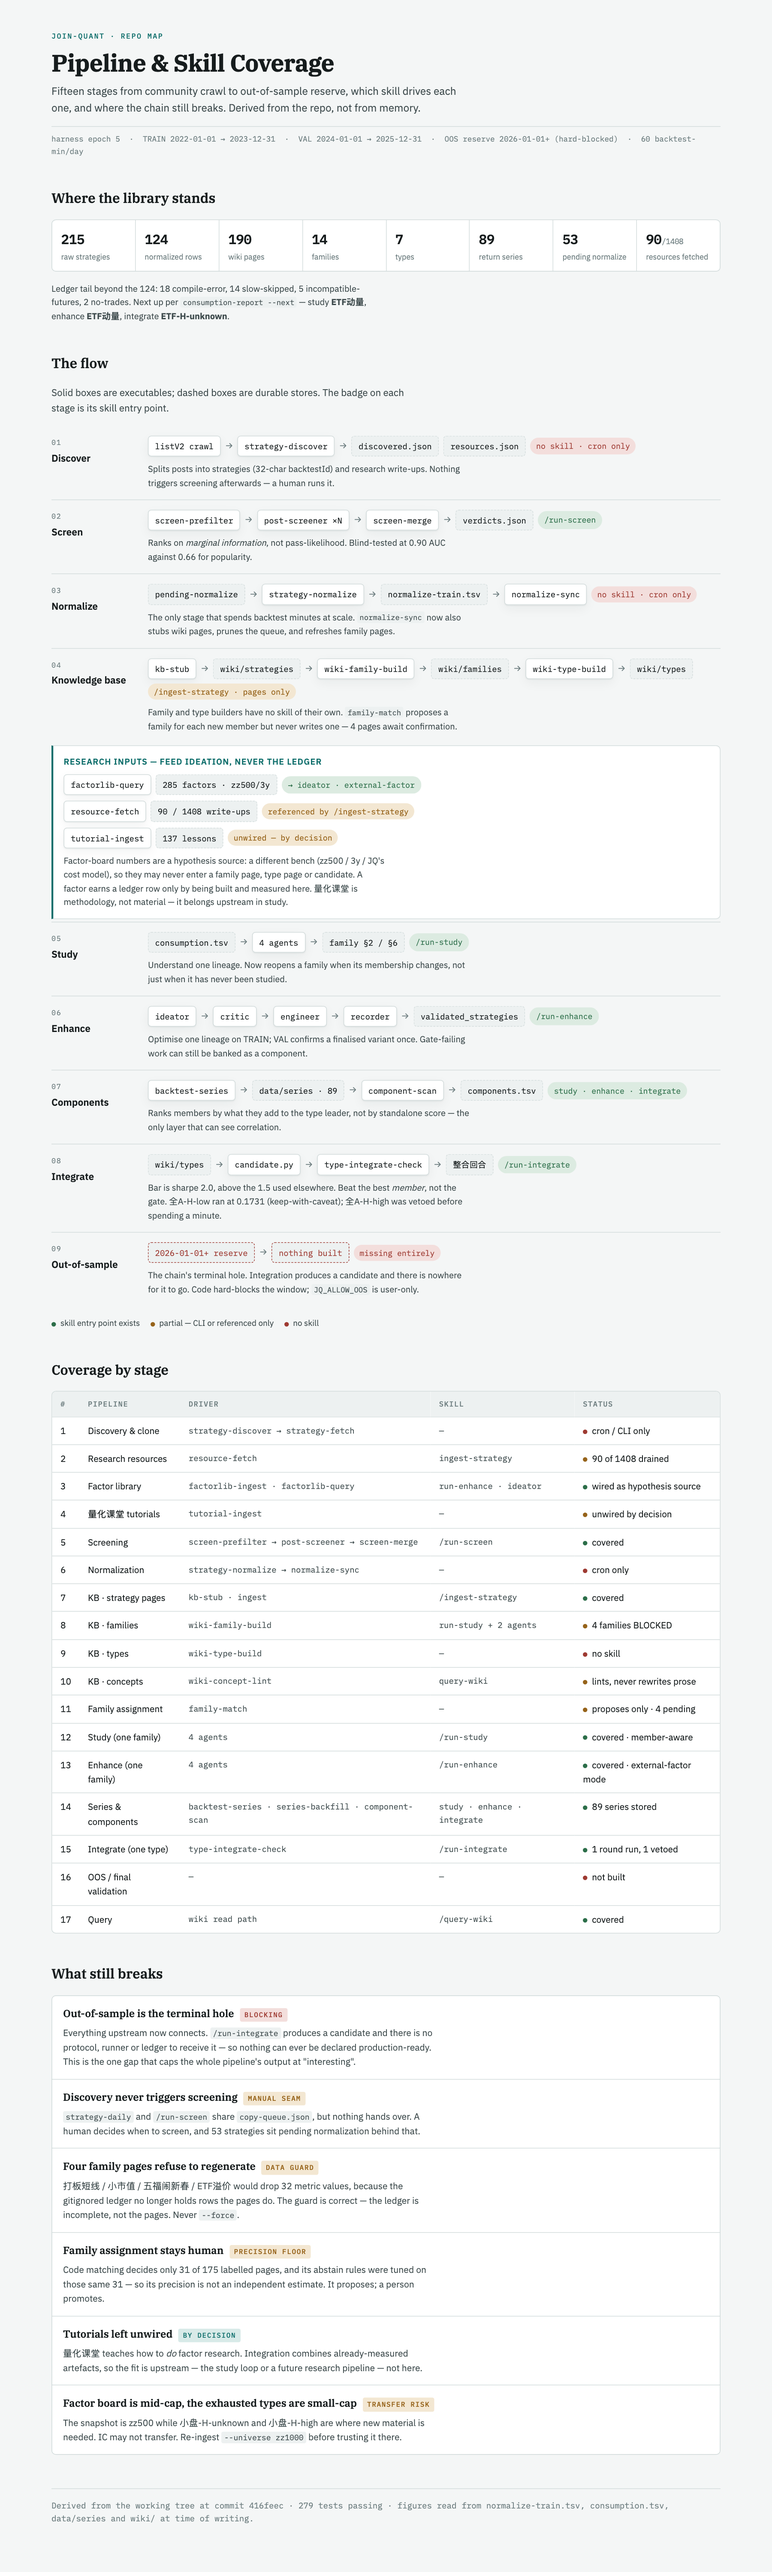
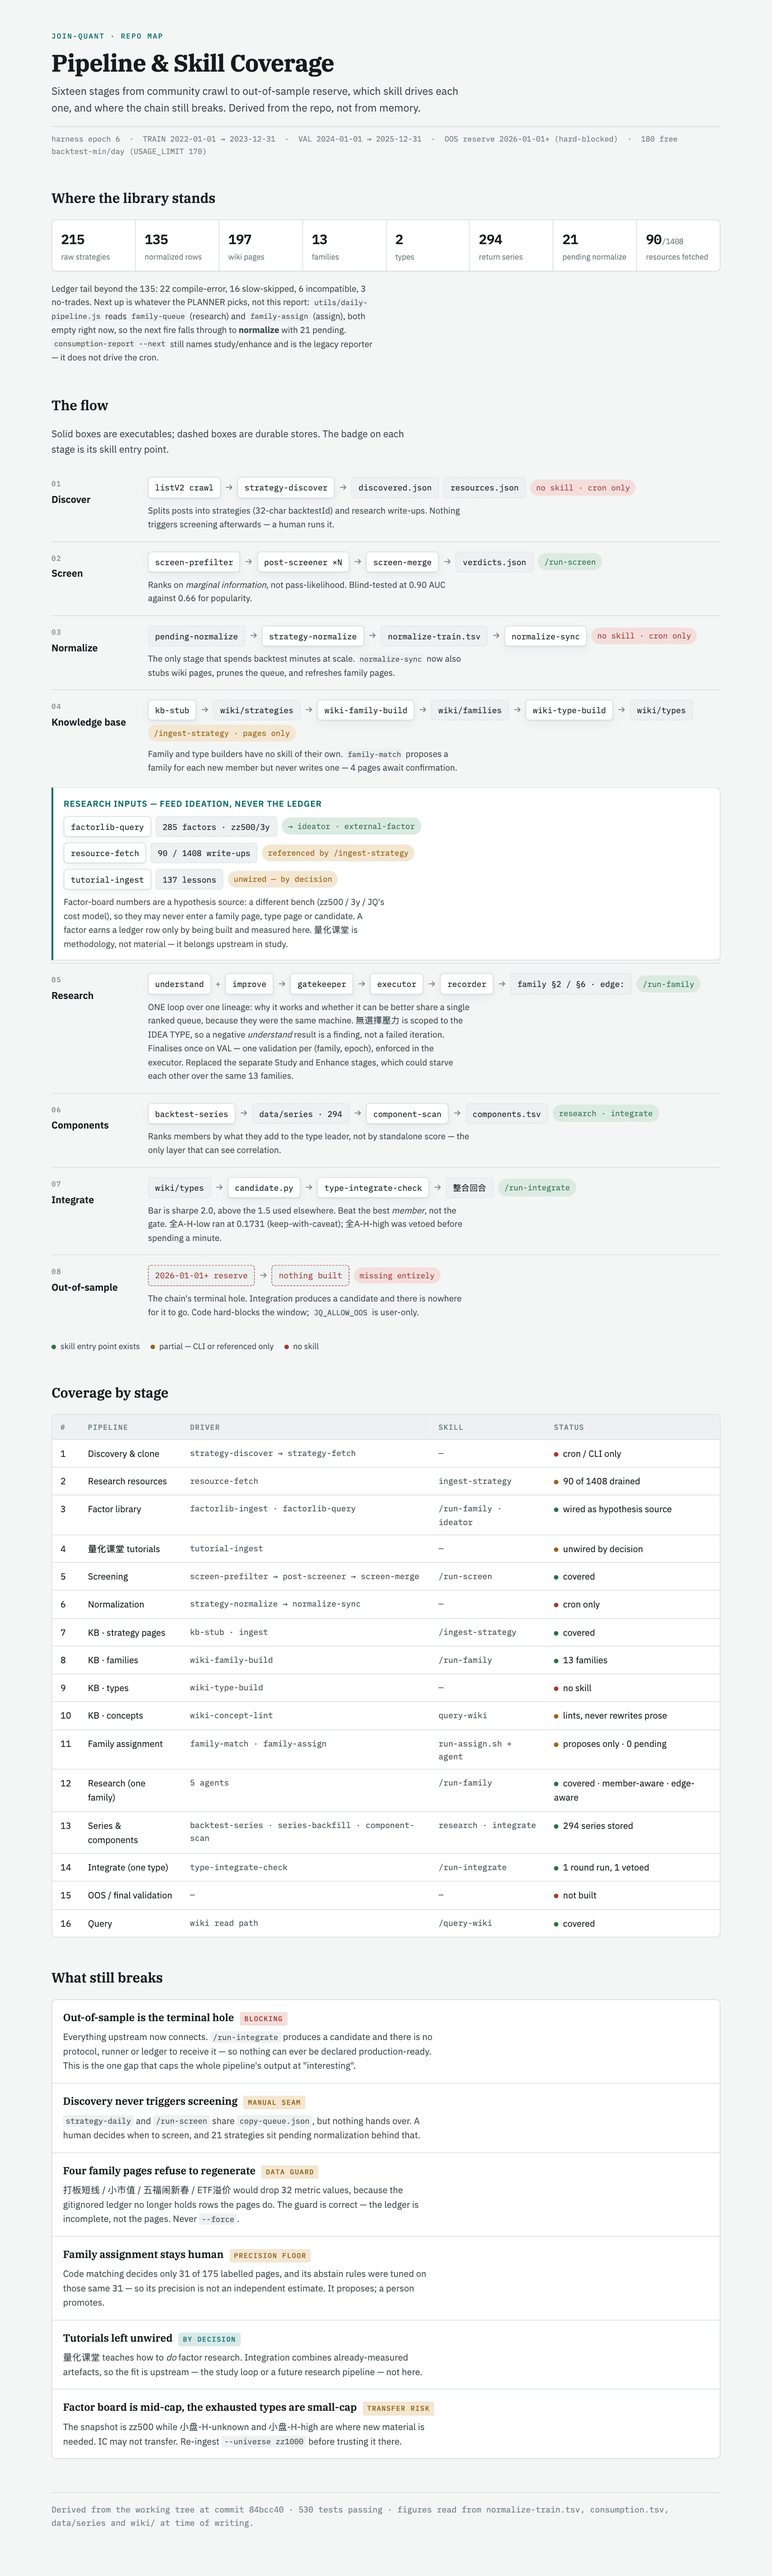
docs: regenerate the pipeline map, retire run-study/run-enhance, drop the stale worktree
Three cleanups from the stale-docs scan.

1. THE MAP. CLAUDE.md warns it "shows LIVE FIGURES so it goes stale silently",
   and it had. Structure: Study and Enhance were separate stages (cards 05/06,
   table rows 12/13) months after /run-family merged them — now one Research
   stage, 9 cards -> 8, 17 rows -> 16, and CLAUDE.md's "17 stages" with it.

   ⚠ grep found three stale strings; LOOKING at the render found eleven more,
   because the rest live in prose and stat blocks:

     harness epoch 5 -> 6            60 backtest-min/day -> 180 free (limit 170)
     124 normalized  -> 135          190 wiki pages      -> 197
     14 families     -> 13           7 types             -> 2
     89 return series-> 294          53 pending          -> 21
     ledger tail 18/14/5/2           -> 22/16/6/3
     commit 416feec · 279 tests      -> 84bcc40 · 530 tests
     Components card badge "study · enhance · integrate" -> "research · integrate"

   The "Next up" line cited `consumption-report --next`, which still names
   study/enhance and does NOT drive the cron. Replaced with what the planner
   actually reads — family-queue and family-assign, both empty, so the next fire
   falls through to normalize with 21 pending — and says the report is legacy.

2. THE SKILLS. .claude/skills/run-study and run-enhance removed; /run-family
   superseded them. Live references in run-daily, run-integrate and run-screen now
[…]

diff --git a/docs/pipeline-map.html b/docs/pipeline-map.html
@@ -170,27 +170,26 @@
   <header>
     <span class="eyebrow">join-quant · repo map</span>
     <h1>Pipeline &amp; Skill Coverage</h1>
-    <p class="sub">Fifteen stages from community crawl to out-of-sample reserve, which skill drives each one,
+    <p class="sub">Sixteen stages from community crawl to out-of-sample reserve, which skill drives each one,
       and where the chain still breaks. Derived from the repo, not from memory.</p>
-    <p class="stamp">harness epoch 5 &nbsp;·&nbsp; TRAIN 2022-01-01 → 2023-12-31 &nbsp;·&nbsp; VAL 2024-01-01 → 2025-12-31
-      &nbsp;·&nbsp; OOS reserve 2026-01-01+ (hard-blocked) &nbsp;·&nbsp; 60 backtest-min/day</p>
+    <p class="stamp">harness epoch 6 &nbsp;·&nbsp; TRAIN 2022-01-01 → 2023-12-31 &nbsp;·&nbsp; VAL 2024-01-01 → 2025-12-31
+      &nbsp;·&nbsp; OOS reserve 2026-01-01+ (hard-blocked) &nbsp;·&nbsp; 180 free backtest-min/day (USAGE_LIMIT 170)</p>
   </header>
 
   <section>
     <h2>Where the library stands</h2>
     <div class="counts">
       <div><b>215</b><span>raw strategies</span></div>
-      <div><b>124</b><span>normalized rows</span></div>
-      <div><b>190</b><span>wiki pages</span></div>
-      <div><b>14</b><span>families</span></div>
-      <div><b>7</b><span>types</span></div>
-      <div><b>89</b><span>return series</span></div>
-      <div><b>53</b><span>pending normalize</span></div>
+      <div><b>135</b><span>normalized rows</span></div>
+      <div><b>197</b><span>wiki pages</span></div>
+      <div><b>13</b><span>families</span></div>
+      <div><b>2</b><span>types</span></div>
+      <div><b>294</b><span>return series</span></div>
+      <div><b>21</b><span>pending normalize</span></div>
       <div><b>90<span style="font-size:.75rem;font-weight:400;color:var(--ink-3)">/1408</span></b><span>resources fetched</span></div>
     </div>
-    <p class="note">Ledger tail beyond the 124: 18 compile-error, 14 slow-skipped, 5 incompatible-futures,
-      2 no-trades. Next up per <code>consumption-report --next</code> — study <strong>ETF动量</strong>,
-      enhance <strong>ETF动量</strong>, integrate <strong>ETF-H-unknown</strong>.</p>
+    <p class="note">Ledger tail beyond the 135: 22 compile-error, 16 slow-skipped, 6 incompatible,
+      3 no-trades. Next up is whatever the PLANNER picks, not this report: <code>utils/daily-pipeline.js</code> reads <code>family-queue</code> (research) and <code>family-assign</code> (assign), both empty right now, so the next fire falls through to <strong>normalize</strong> with 21 pending. <code>consumption-report --next</code> still names study/enhance and is the legacy reporter — it does not drive the cron.</p>
   </section>
 
   <section>
@@ -285,44 +284,34 @@
       </div>
 
       <div class="stage">
-        <div class="stage-key"><span class="n">05</span><span class="nm">Study</span></div>
+        <div class="stage-key"><span class="n">05</span><span class="nm">Research</span></div>
         <div class="stage-body">
           <div class="nodes">
-            <span class="node store">consumption.tsv</span><span class="arrow">→</span>
-            <span class="node">4 agents</span><span class="arrow">→</span>
-            <span class="node store">family §2 / §6</span>
-            <span class="skill has">/run-study</span>
-          </div>
-          <p class="note">Understand one lineage. Now reopens a family when its membership changes, not just when
-            it has never been studied.</p>
-        </div>
-      </div>
-
-      <div class="stage">
-        <div class="stage-key"><span class="n">06</span><span class="nm">Enhance</span></div>
-        <div class="stage-body">
-          <div class="nodes">
-            <span class="node">ideator</span><span class="arrow">→</span>
-            <span class="node">critic</span><span class="arrow">→</span>
-            <span class="node">engineer</span><span class="arrow">→</span>
+            <span class="node">understand</span><span class="arrow">+</span>
+            <span class="node">improve</span><span class="arrow">→</span>
+            <span class="node">gatekeeper</span><span class="arrow">→</span>
+            <span class="node">executor</span><span class="arrow">→</span>
             <span class="node">recorder</span><span class="arrow">→</span>
-            <span class="node store">validated_strategies</span>
-            <span class="skill has">/run-enhance</span>
+            <span class="node store">family §2 / §6 · edge:</span>
+            <span class="skill has">/run-family</span>
           </div>
-          <p class="note">Optimise one lineage on TRAIN; VAL confirms a finalised variant once. Gate-failing work
-            can still be banked as a component.</p>
+          <p class="note">ONE loop over one lineage: why it works and whether it can be better share a single
+            ranked queue, because they were the same machine. 無選擇壓力 is scoped to the IDEA TYPE, so a
+            negative <em>understand</em> result is a finding, not a failed iteration. Finalises once on VAL —
+            one validation per (family, epoch), enforced in the executor. Replaced the separate Study and
+            Enhance stages, which could starve each other over the same 13 families.</p>
         </div>
       </div>
 
       <div class="stage">
-        <div class="stage-key"><span class="n">07</span><span class="nm">Components</span></div>
+        <div class="stage-key"><span class="n">06</span><span class="nm">Components</span></div>
         <div class="stage-body">
           <div class="nodes">
             <span class="node">backtest-series</span><span class="arrow">→</span>
-            <span class="node store">data/series · 89</span><span class="arrow">→</span>
+            <span class="node store">data/series · 294</span><span class="arrow">→</span>
             <span class="node">component-scan</span><span class="arrow">→</span>
             <span class="node store">components.tsv</span>
-            <span class="skill has">study · enhance · integrate</span>
+            <span class="skill has">research · integrate</span>
           </div>
           <p class="note">Ranks members by what they add to the type leader, not by standalone score — the only
             layer that can see correlation.</p>
@@ -330,7 +319,7 @@
       </div>
 
       <div class="stage">
-        <div class="stage-key"><span class="n">08</span><span class="nm">Integrate</span></div>
+        <div class="stage-key"><span class="n">07</span><span class="nm">Integrate</span></div>
         <div class="stage-body">
           <div class="nodes">
             <span class="node store">wiki/types</span><span class="arrow">→</span>
@@ -345,7 +334,7 @@
       </div>
 
       <div class="stage">
-        <div class="stage-key"><span class="n">09</span><span class="nm">Out-of-sample</span></div>
+        <div class="stage-key"><span class="n">08</span><span class="nm">Out-of-sample</span></div>
         <div class="stage-body">
           <div class="nodes">
             <span class="node store" style="border-color:var(--gap); color:var(--gap)">2026-01-01+ reserve</span>
@@ -377,21 +366,20 @@
         <tbody>
           <tr><td>1</td><td>Discovery &amp; clone</td><td class="driver">strategy-discover → strategy-fetch</td><td class="driver">—</td><td><span class="dot gap"></span>cron / CLI only</td></tr>
           <tr><td>2</td><td>Research resources</td><td class="driver">resource-fetch</td><td class="driver">ingest-strategy</td><td><span class="dot part"></span>90 of 1408 drained</td></tr>
-          <tr><td>3</td><td>Factor library</td><td class="driver">factorlib-ingest · factorlib-query</td><td class="driver">run-enhance · ideator</td><td><span class="dot ok"></span>wired as hypothesis source</td></tr>
+          <tr><td>3</td><td>Factor library</td><td class="driver">factorlib-ingest · factorlib-query</td><td class="driver">/run-family · ideator</td><td><span class="dot ok"></span>wired as hypothesis source</td></tr>
           <tr><td>4</td><td>量化课堂 tutorials</td><td class="driver">tutorial-ingest</td><td class="driver">—</td><td><span class="dot part"></span>unwired by decision</td></tr>
           <tr><td>5</td><td>Screening</td><td class="driver">screen-prefilter → post-screener → screen-merge</td><td class="driver">/run-screen</td><td><span class="dot ok"></span>covered</td></tr>
           <tr><td>6</td><td>Normalization</td><td class="driver">strategy-normalize → normalize-sync</td><td class="driver">—</td><td><span class="dot gap"></span>cron only</td></tr>
           <tr><td>7</td><td>KB · strategy pages</td><td class="driver">kb-stub · ingest</td><td class="driver">/ingest-strategy</td><td><span class="dot ok"></span>covered</td></tr>
-          <tr><td>8</td><td>KB · families</td><td class="driver">wiki-family-build</td><td class="driver">run-study + 2 agents</td><td><span class="dot part"></span>4 families BLOCKED</td></tr>
+          <tr><td>8</td><td>KB · families</td><td class="driver">wiki-family-build</td><td class="driver">/run-family</td><td><span class="dot ok"></span>13 families</td></tr>
           <tr><td>9</td><td>KB · types</td><td class="driver">wiki-type-build</td><td class="driver">—</td><td><span class="dot gap"></span>no skill</td></tr>
           <tr><td>10</td><td>KB · concepts</td><td class="driver">wiki-concept-lint</td><td class="driver">query-wiki</td><td><span class="dot part"></span>lints, never rewrites prose</td></tr>
-          <tr><td>11</td><td>Family assignment</td><td class="driver">family-match</td><td class="driver">—</td><td><span class="dot part"></span>proposes only · 4 pending</td></tr>
-          <tr><td>12</td><td>Study (one family)</td><td class="driver">4 agents</td><td class="driver">/run-study</td><td><span class="dot ok"></span>covered · member-aware</td></tr>
-          <tr><td>13</td><td>Enhance (one family)</td><td class="driver">4 agents</td><td class="driver">/run-enhance</td><td><span class="dot ok"></span>covered · external-factor mode</td></tr>
-          <tr><td>14</td><td>Series &amp; components</td><td class="driver">backtest-series · series-backfill · component-scan</td><td class="driver">study · enhance · integrate</td><td><span class="dot ok"></span>89 series stored</td></tr>
-          <tr><td>15</td><td>Integrate (one type)</td><td class="driver">type-integrate-check</td><td class="driver">/run-integrate</td><td><span class="dot ok"></span>1 round run, 1 vetoed</td></tr>
-          <tr><td>16</td><td>OOS / final validation</td><td class="driver">—</td><td class="driver">—</td><td><span class="dot gap"></span>not built</td></tr>
-          <tr><td>17</td><td>Query</td><td class="driver">wiki read path</td><td class="driver">/query-wiki</td><td><span class="dot ok"></span>covered</td></tr>
+          <tr><td>11</td><td>Family assignment</td><td class="driver">family-match · family-assign</td><td class="driver">run-assign.sh + agent</td><td><span class="dot part"></span>proposes only · 0 pending</td></tr>
+          <tr><td>12</td><td>Research (one family)</td><td class="driver">5 agents</td><td class="driver">/run-family</td><td><span class="dot ok"></span>covered · member-aware · edge-aware</td></tr>
+          <tr><td>13</td><td>Series &amp; components</td><td class="driver">backtest-series · series-backfill · component-scan</td><td class="driver">research · integrate</td><td><span class="dot ok"></span>294 series stored</td></tr>
+          <tr><td>14</td><td>Integrate (one type)</td><td class="driver">type-integrate-check</td><td class="driver">/run-integrate</td><td><span class="dot ok"></span>1 round run, 1 vetoed</td></tr>
+          <tr><td>15</td><td>OOS / final validation</td><td class="driver">—</td><td class="driver">—</td><td><span class="dot gap"></span>not built</td></tr>
+          <tr><td>16</td><td>Query</td><td class="driver">wiki read path</td><td class="driver">/query-wiki</td><td><span class="dot ok"></span>covered</td></tr>
         </tbody>
       </table>
     </div>
@@ -409,7 +397,7 @@
       <article>
         <h3>Discovery never triggers screening <span class="sev soft">manual seam</span></h3>
         <p><code>strategy-daily</code> and <code>/run-screen</code> share <code>copy-queue.json</code>, but nothing
-          hands over. A human decides when to screen, and 53 strategies sit pending normalization behind that.</p>
+          hands over. A human decides when to screen, and 21 strategies sit pending normalization behind that.</p>
       </article>
       <article>
         <h3>Four family pages refuse to regenerate <span class="sev soft">data guard</span></h3>
@@ -436,7 +424,7 @@
   </section>
 
   <footer>
-    Derived from the working tree at commit 416feec · 279 tests passing · figures read from
+    Derived from the working tree at commit 84bcc40 · 530 tests passing · figures read from
     normalize-train.tsv, consumption.tsv, data/series and wiki/ at time of writing.
   </footer>
 

diff --git a/.claude/skills/run-integrate/SKILL.md b/.claude/skills/run-integrate/SKILL.md
@@ -5,7 +5,7 @@ description: Run a TYPE-level integration round — take the strategy families t
 
 # Run a type-level integration round
 
-The layer above `/run-enhance`. Enhance improves **one lineage**; this asks whether the families
+The layer above `/run-family`. That loop works **one lineage**; this asks whether the families
 in one **type** (`wiki/types/<universe>-<horizon>.md`) can be combined into something better than
 any of them alone.
 
@@ -69,13 +69,13 @@ single-shot OOS reserve. So:
    integrate event. A single-family type has nothing to integrate.
 2. Collect each member's baseline from the type page and `harness/normalize-train.tsv`. Do not
    re-measure what is already in the ledger — the 60 backtest-min/day are shared with the
-   normalize queue and `/run-enhance`.
+   normalize queue and `/run-family`.
 2b. **Choose the legs on marginal contribution, not on standalone score.** Two free inputs:
    - `node utils/component-scan.js --type <type>` ranks every member by the score uplift a
      50/50 blend with the type leader would produce, and prints the correlation. Members that
      **fail the gate but still lift the leader** are flagged — those are exactly what a
      standalone bar would have thrown away.
-   - `node utils/components.js --type <type>` lists ingredients `/run-study` and `/run-enhance`
+   - `node utils/components.js --type <type>` lists ingredients `/run-family`
      already registered, each with the measurement behind it.
    If members lack curves, run `node utils/series-backfill.js --dry` first (no backtest cost).
    ⚠ Those blends are **cost-free, daily-rebalanced upper bounds** — a screening device for
@@ -83,7 +83,7 @@ single-shot OOS reserve. So:
 3. Write the candidate as one strategy file under `enhance/candidates/<expId>.py`, using the
    frozen cost block. Start **equal-weight**.
 4. Run it: `node utils/strategy-post-backtest.js enhance/candidates/<expId>.py "<expId>" --window train --usage-limit 55`
-   (foreground, plain form, per `/run-enhance`).
+   (foreground, plain form, per `/run-family`).
 5. Build `candidate.json` and run the guard. `reject` ends it; record why.
 6. On `keep` or `keep-with-caveat`: one VAL run, then append a row to the type page's
    整合回合 section and record the event:

diff --git a/CLAUDE.md b/CLAUDE.md
@@ -208,7 +208,7 @@ Only the directories whose contents aren't self-evident:
 | `research/factorlib/` | JQ **因子看板** ingested by `utils/factorlib-ingest.js`: 285 factors with formulas, IC/IR, quintile returns and turnover, pulled at **both** cost levels. `factors.tsv` + generated `README.md` (tracked); raw payloads in `data/factorlib/`. |
 | `research/tutorials/` | **量化课堂**, 137 lessons in 5 categories, ingested by `utils/tutorial-ingest.js` via `detailV2` (free). Category 新手专区 is a full factor-research methodology chain. |
 | `resources/` | **Raw layer #2** (alongside `strategies/`): community RESEARCH write-ups as `.md`, fetched by `utils/resource-fetch.js`. One file per post, frontmatter + full body. Notebook/attachment availability is recorded but the notebook itself is **not** downloadable (see Notes). |
-| `docs/pipeline-map.html` + `docs/assets/pipeline-map.png` | **Pipeline & skill coverage map** — the 17 stages, which skill drives each, and the open gaps. ⚠ It shows LIVE FIGURES (ledger/family/queue counts) so it goes stale silently; regenerate with `node scripts/render-doc.js docs/pipeline-map.html docs/assets/pipeline-map.png` after editing the HTML, which is the thing under review. |
+| `docs/pipeline-map.html` + `docs/assets/pipeline-map.png` | **Pipeline & skill coverage map** — the 16 stages, which skill drives each, and the open gaps. ⚠ It shows LIVE FIGURES (ledger/family/queue counts) so it goes stale silently; regenerate with `node scripts/render-doc.js docs/pipeline-map.html docs/assets/pipeline-map.png` after editing the HTML, which is the thing under review. |
 | `validated_strategies/` | Finalized strategies that completed VAL (Agent 4 archives here; **tracked** = product shelf) |
 | `data/` | **Tracked** (private backup) — discovery + resource state, `factorlib/` raw payloads. Only `data/cookies.json` is gitignored. |
 | `auth/` | Session cookies; `auth/cookies.json` itself is **gitignored** (default cookie path). |

diff --git a/.claude/skills/run-daily/SKILL.md b/.claude/skills/run-daily/SKILL.md
@@ -1,11 +1,11 @@
 ---
 name: run-daily
-description: Run one day of the join-quant pipeline — pick the stage by queue priority (enhance > study > normalize > discover), spend the backtest budget on it, chain to the next stage while minutes remain, write a dated markdown summary to docs/daily/, and commit and push it. Use when asked to run the daily pipeline, move strategies forward, drain the queues, or decide what today's backtest budget should be spent on.
+description: Run one day of the join-quant pipeline — pick the stage by queue priority (research > assign > normalize > discover), spend the backtest budget on it, chain to the next stage while minutes remain, write a dated markdown summary to docs/daily/, and commit and push it. Use when asked to run the daily pipeline, move strategies forward, drain the queues, or decide what today's backtest budget should be spent on.
 ---
 
 # Run one day of the pipeline
 
-The orchestration layer above `/run-study`, `/run-enhance` and the normalizer. It does not
+The orchestration layer above `/run-family` and the normalizer. It does not
 decide *how* to study or enhance — it decides **which stage gets today's 60 backtest-minutes**,
 runs it, reads what came back, and moves on.
 

diff --git a/.claude/skills/run-screen/SKILL.md b/.claude/skills/run-screen/SKILL.md
@@ -74,7 +74,7 @@ flags are the guard.
 the largest at 12%. The highest-value results were **falsifications of what we already hold**
 (lookahead dissections, an overfit audit, a list of backtest cheats), not new strategies —
 which is axis M behaving as designed. 93 `NEW:<mechanism>` families were proposed and **none is
-registered yet**; registering them is what unblocks `/run-study` and `/run-enhance`.
+registered yet**; registering them is what unblocks `/run-family`.
 
 ## Validating a rubric change
 
